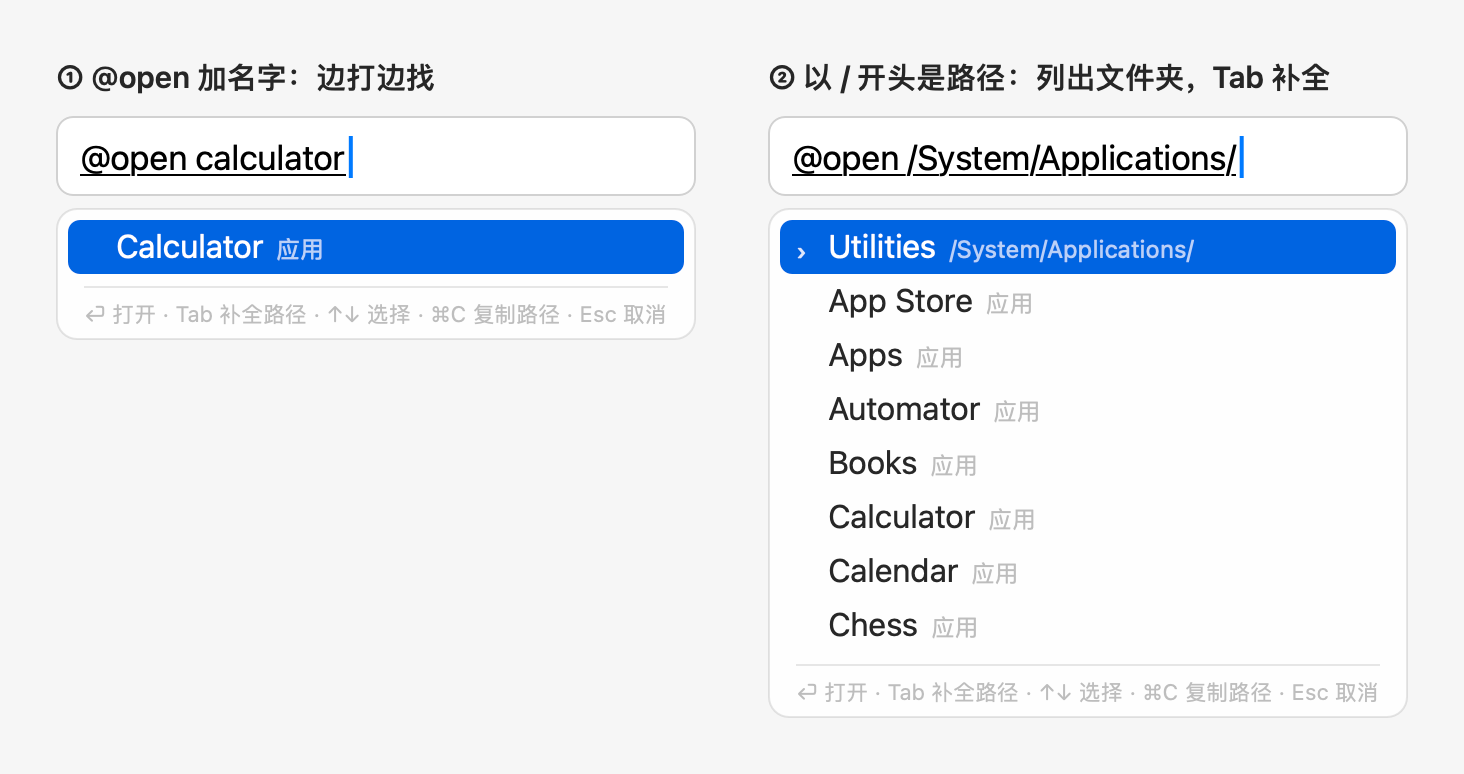
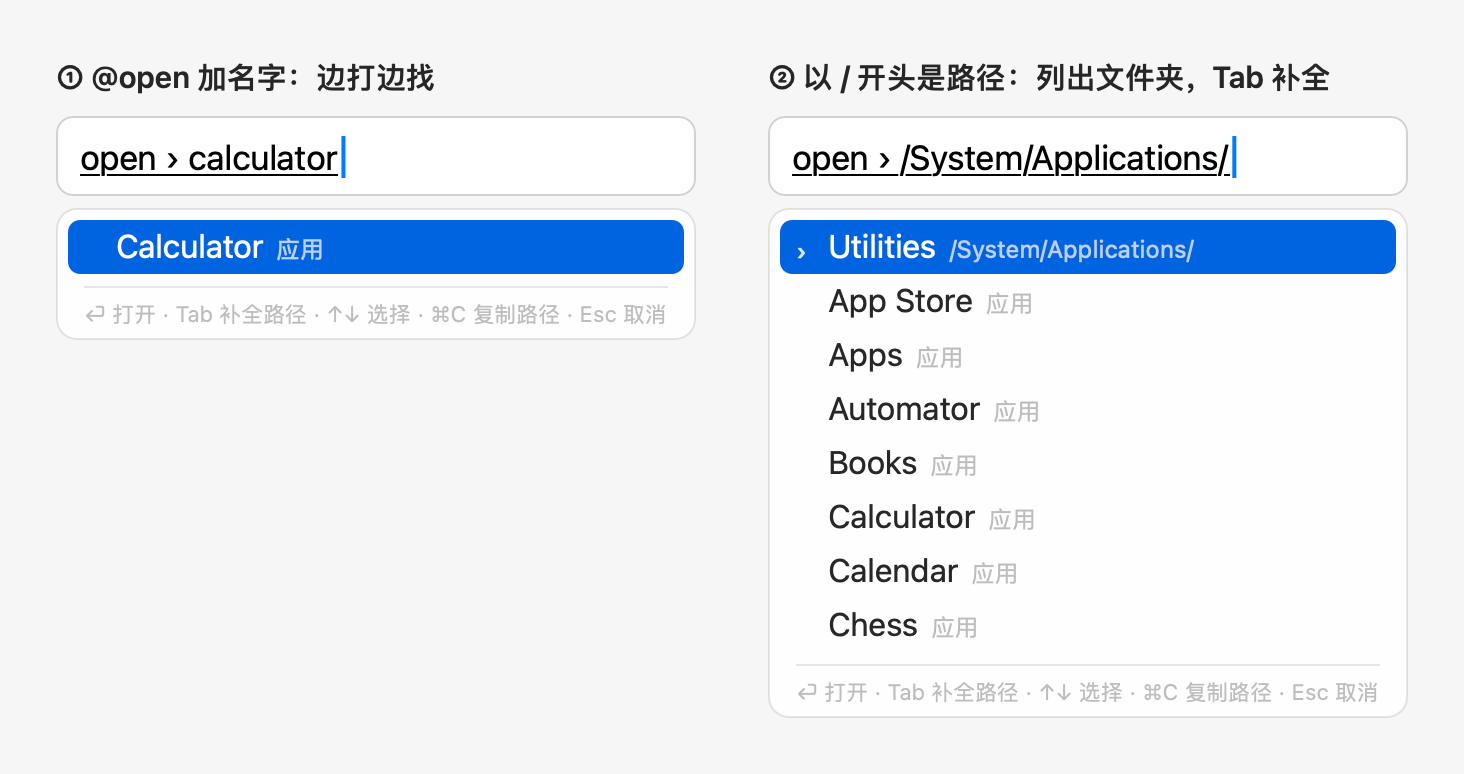
Self-test and README images: 0.3.0's command display
0.3.0 shows a command as "improve › …" while it is typed (no "@" for Slack to turn into a
mention) and has a fifth built-in command, @read. The self-test still expected "@improve …" and
four commands, so 13 of its checks failed on 0.3.0 as released; the ⌘V checks also waited for
the old text and read the marked text too early. They expect the new display now (what is
inserted is still the text as typed).

The README composites draw the inline text the same way, and the images are regenerated:
the settings window without the sentence-mode switches, the command list with @read and the
new @improve summary.

Changed region(s): [[0.5225, 0.186, 0.8607, 0.2481], [0.0615, 0.186, 0.2459, 0.2481]]

diff --git a/Sources/AllInOneIME/SelfTest.swift b/Sources/AllInOneIME/SelfTest.swift
@@ -170,7 +170,7 @@ enum SelfTest {
         press(c, client, "@", code: 0x13, flags: .shift)  // ⇧2
         type("i", c, client)
         press(c, client, "\t", code: VirtualKey.tab)
-        return client.marked == "@improve "
+        return client.marked == "improve › "
     }
 
     /// The hint shown under a draft in `input`, for the current action key and interface language.
@@ -394,7 +394,7 @@ enum SelfTest {
         let sentence = "this is a blocker bug your team need fix it asap"
         improve(controller, client)
         type(sentence, controller, client)
-        check(client.marked == "@improve " + sentence && controller.composer.isLatinDraft,
+        check(client.marked == "improve › " + sentence && controller.composer.isLatinDraft,
               "English collects into the @improve draft (\(client.marked))")
         check(space(controller, client) && controller.composer.draft.hasSuffix(" ") && !controller.composer.isLevelTwo,
               "Space after a word is a space")
@@ -582,7 +582,7 @@ enum SelfTest {
         if dictate(chineseAudio, snapshotName: "8-voice") {
             let draft = controller.composer.draft
             check(draft.hasPrefix(before) && draft.wordingKey.contains("不舒服"), "transcript continues the draft: \(draft)")
-            check(client.marked == draft, "draft shown inline")
+            check(client.marked == draft.replacingOccurrences(of: "@improve ", with: "improve › "), "draft shown inline")
             act(controller, client)
             if finishConversion(controller, "voice → translation") {
                 check(controller.composer.choices.filter { $0.kind == .version }.count == 3, "3 English versions of the spoken sentence")
@@ -660,12 +660,12 @@ enum SelfTest {
         settle()
         at()
         let commands = controller.panelModel().rows.map(\.text)
-        check(client.marked == "@" && commands == ["@improve", "@question", "@claude", "@open"],
+        check(client.marked == "@" && commands == ["@improve", "@question", "@claude", "@open", "@read"],
               "@ opens the command palette (\(commands))")
         readmeSnapshot("10-palette", controller, client, in: snapshotDirectory)
         type("q", controller, client)
         _ = enter(controller, client)
-        check(client.marked == "@question ", "⏎ picks @question ('\(client.marked)')")
+        check(client.marked == "question › ", "⏎ picks @question ('\(client.marked)')")
         type("shenmeshiliangzijisuan", controller, client)  // 什么是量子计算: what is quantum computing
         _ = enter(controller, client)  // converts the pinyin and asks
         if finishConversion(controller, "@question") {
@@ -697,7 +697,7 @@ enum SelfTest {
         _ = space(controller, client)
         type("nihao", controller, client)
         _ = enter(controller, client)
-        check(terminal.count == 1 && client.marked == "@claude 你好",
+        check(terminal.count == 1 && client.marked == "claude › 你好",
               "@claude doesn't start Claude Code while secure input is on (\(client.marked))")
         controller.secureInputActive = secureInput
         _ = enter(controller, client)
@@ -1017,7 +1017,7 @@ enum SelfTest {
         press(controller, client, "@", code: 0x13, flags: .shift)
         type("i", controller, client)
         _ = enter(controller, client)
-        check(client.marked == "@improve ", "@i ⏎ picks @improve ('\(client.marked)')")
+        check(client.marked == "improve › ", "@i ⏎ picks @improve ('\(client.marked)')")
         type("wojintianyoudianbushufu", controller, client)
         check(controller.panelModel().footer == "空格 选词 · ⏎ 翻译成英文 / 改写", "the footer names the command (\(controller.panelModel().footer))")
         readmeSnapshot("1b-sentence-pinyin", controller, client, in: snapshotDirectory)
@@ -1042,8 +1042,8 @@ enum SelfTest {
         _ = enter(controller, client)
         let insertedBefore = client.inserted.count
         check(press(controller, client, "v", code: 0x09, flags: .command), "⌘V in the command is the input method's (the app doesn't paste)")
-        _ = pump(timeout: 1) { client.marked != "@improve " }  // the clipboard is read once the key is answered
-        check(client.marked == "@improve 这个项目的进度太慢了我们需要尽快想办法" && client.inserted.count == insertedBefore,
+        _ = pump(timeout: 1) { client.marked != "improve › " }  // the clipboard is read once the key is answered
+        check(client.marked == "improve › 这个项目的进度太慢了我们需要尽快想办法" && client.inserted.count == insertedBefore,
               "the clipboard's text goes into the command, as one line ('\(client.marked)')")
         _ = enter(controller, client)
         if finishConversion(controller, "@improve on pasted text") {
@@ -1069,8 +1069,8 @@ enum SelfTest {
         press(controller, client, "@", code: 0x13, flags: .shift)
         type("i", controller, client)
         _ = enter(controller, client)
-        check(enter(controller, client) && pump(timeout: 1) { client.marked != "@improve " }
-              && client.marked == "@improve 这个项目的进度太慢了我们需要尽快想办法" && !controller.composer.isLevelTwo,
+        check(enter(controller, client) && pump(timeout: 1) { client.marked != "improve › " }
+              && client.marked == "improve › 这个项目的进度太慢了我们需要尽快想办法" && !controller.composer.isLevelTwo,
               "⏎ on the empty command shows the clipboard's text in it (\(client.marked))")
         _ = enter(controller, client)
         _ = pump(timeout: 3) { controller.composer.phase == .choosing }
@@ -1086,7 +1086,7 @@ enum SelfTest {
         let insertedBeforeControlV = client.inserted.count
         check(press(controller, client, "v", code: 0x09, flags: .control)
               && pump(timeout: 1) { client.marked.hasSuffix("想办法") }
-              && client.marked == "@improve 你好这个项目的进度太慢了我们需要尽快想办法" && client.inserted.count == insertedBeforeControlV,
+              && client.marked == "improve › 你好这个项目的进度太慢了我们需要尽快想办法" && client.inserted.count == insertedBeforeControlV,
               "in a terminal ⌃V adds the clipboard's text after what was typed (\(client.marked))")
         _ = escape(controller, client)
         client.bundleIDOverride = nil
@@ -1129,7 +1129,7 @@ enum SelfTest {
         check(improve(controller, client), "@i Tab starts an @improve draft ('\(client.marked)')")
         type("nihao", controller, client)
         _ = space(controller, client)
-        check(client.marked == "@improve 你好" && controller.composer.draft == "@improve 你好",
+        check(client.marked == "improve › 你好" && controller.composer.draft == "@improve 你好",
               "Space confirms 你好 into the command (not inserted yet)")
         check(controller.panelModel().status == draftHint(controller, input: .chinese),
               "the hint names the action key (\(controller.panelModel().status))")
@@ -1156,7 +1156,7 @@ enum SelfTest {
         check(!press(controller, client, "a", code: 0x00), "letters go straight to the app")
         improve(controller, client)
         type("ok", controller, client)
-        check(client.marked == "@improve ok" && controller.composer.isLatinDraft, "after @improve, letters go into the command")
+        check(client.marked == "improve › ok" && controller.composer.isLatinDraft, "after @improve, letters go into the command")
         check(shiftEnter(controller, client) && client.inserted.last == "@improve ok" && client.marked.isEmpty,
               "⇧⏎ inserts the English command as typed")
         improve(controller, client)
@@ -1191,7 +1191,7 @@ enum SelfTest {
         snapshot("2b-sentence-draft", in: snapshotDirectory)
         let started = Date()
         check(act(controller, client), "the action key starts the translation")
-        check(panel.isVisible && client.marked == "@improve " + sentence, "panel visible, the command stays marked")
+        check(panel.isVisible && client.marked == "improve › " + sentence, "panel visible, the command stays marked")
         var streamingSnapshotTaken = false
         let finished = pump(timeout: 20) {
             if !streamingSnapshotTaken, case .translating = controller.composer.phase,
@@ -1238,7 +1238,7 @@ enum SelfTest {
         _ = space(controller, client)
         act(controller, client)  // translation starts
         type("ma", controller, client)  // keep typing instead of choosing
-        check(controller.composer.phase == .drafting && client.marked.hasPrefix("@improve 你好"), "back to the draft (\(client.marked))")
+        check(controller.composer.phase == .drafting && client.marked.hasPrefix("improve › 你好"), "back to the draft (\(client.marked))")
         _ = space(controller, client)
         check(controller.composer.draft == "@improve 你好吗", "sentence is now 你好吗 (\(controller.composer.draft))")
         _ = shiftEnter(controller, client)
@@ -1354,7 +1354,7 @@ enum SelfTest {
         // Space asks again (the model is still invalid, so it fails again).
         check(space(controller, client) && !failed() && pump(timeout: 15) { failed() }, "Space retries")
         _ = escape(controller, client)
-        check(controller.composer.phase == .drafting && client.marked == "@improve 测试", "Esc returns to the draft")
+        check(controller.composer.phase == .drafting && client.marked == "improve › 测试", "Esc returns to the draft")
         controller.commitComposition(client)
         check(client.inserted.last == "@improve 测试" && controller.composer.phase == .idle, "commitComposition inserts the draft")
 

diff --git a/Scripts/make-readme-images.swift b/Scripts/make-readme-images.swift
@@ -106,35 +106,35 @@ func composite(_ steps: [Step], to name: String) throws {
 
 try composite([
     Step(caption: tr("① 开头打 @improve，再打拼音", "① Type @improve, then pinyin"),
-         marked: "@improve wo jin tian you dian bu shu fu", panel: load("1b-sentence-pinyin")),
+         marked: "improve › wo jin tian you dian bu shu fu", panel: load("1b-sentence-pinyin")),
     Step(caption: tr("② 按 ⏎：英文 + 中文改写", "② Press ⏎: English + Chinese rewrites"),
-         marked: "@improve 我今天有点不舒服", panel: load("4-final-light")),
+         marked: "improve › 我今天有点不舒服", panel: load("4-final-light")),
 ], to: "demo.png")
 
 try composite([
     Step(caption: tr("@improve 加英文：英文润色（含黑话）", "@improve with English: English polish (incl. Jargon)"),
-         marked: "@improve this is a blocker bug your team need fix it asap", panel: load("7-english-light")),
+         marked: "improve › this is a blocker bug your team need fix it asap", panel: load("7-english-light")),
     Step(caption: tr("输出设成中文：中文润色 + 改写", "Output set to Chinese: Chinese polish + rewrites"),
-         marked: "@improve 这个项目的进度太慢了", panel: load("7b-chinese-output")),
+         marked: "improve › 这个项目的进度太慢了", panel: load("7b-chinese-output")),
 ], to: "english.png")
 
 try composite([
     Step(caption: tr("先打 @improve，再按住右 ⌥ 说话", "Type @improve, then hold right ⌥ to talk"),
-         marked: "@improve 我今天有", panel: load("8-voice")),
+         marked: "improve › 我今天有", panel: load("8-voice")),
 ], to: "voice.png")
 
 try composite([
     Step(caption: tr("① 开头打 @：命令列表，打字母筛选", "① Type @ first: the command list; letters filter it"),
          marked: "@", panel: load("10-palette")),
     Step(caption: tr("② @question 加问题，按 ⏎：回答", "② @question and a question, press ⏎: the answer"),
-         marked: "@question 什么是量子计算", panel: load("11-question")),
+         marked: "question › 什么是量子计算", panel: load("11-question")),
 ], to: "commands.png")
 
 try composite([
     Step(caption: tr("① @open 加名字：边打边找", "① @open and a name: results as you type"),
-         marked: "@open calculator", panel: load("12-open")),
+         marked: "open › calculator", panel: load("12-open")),
     Step(caption: tr("② 以 / 开头是路径：列出文件夹，Tab 补全", "② A path (starts with /): lists the folder, Tab completes"),
-         marked: "@open /System/Applications/", panel: load("12b-open-path")),
+         marked: "open › /System/Applications/", panel: load("12b-open-path")),
 ], to: "open.png")
 
 for (from, to) in [("4-final-dark", "panel-dark.png"), ("6-settings", "settings.png")] {
